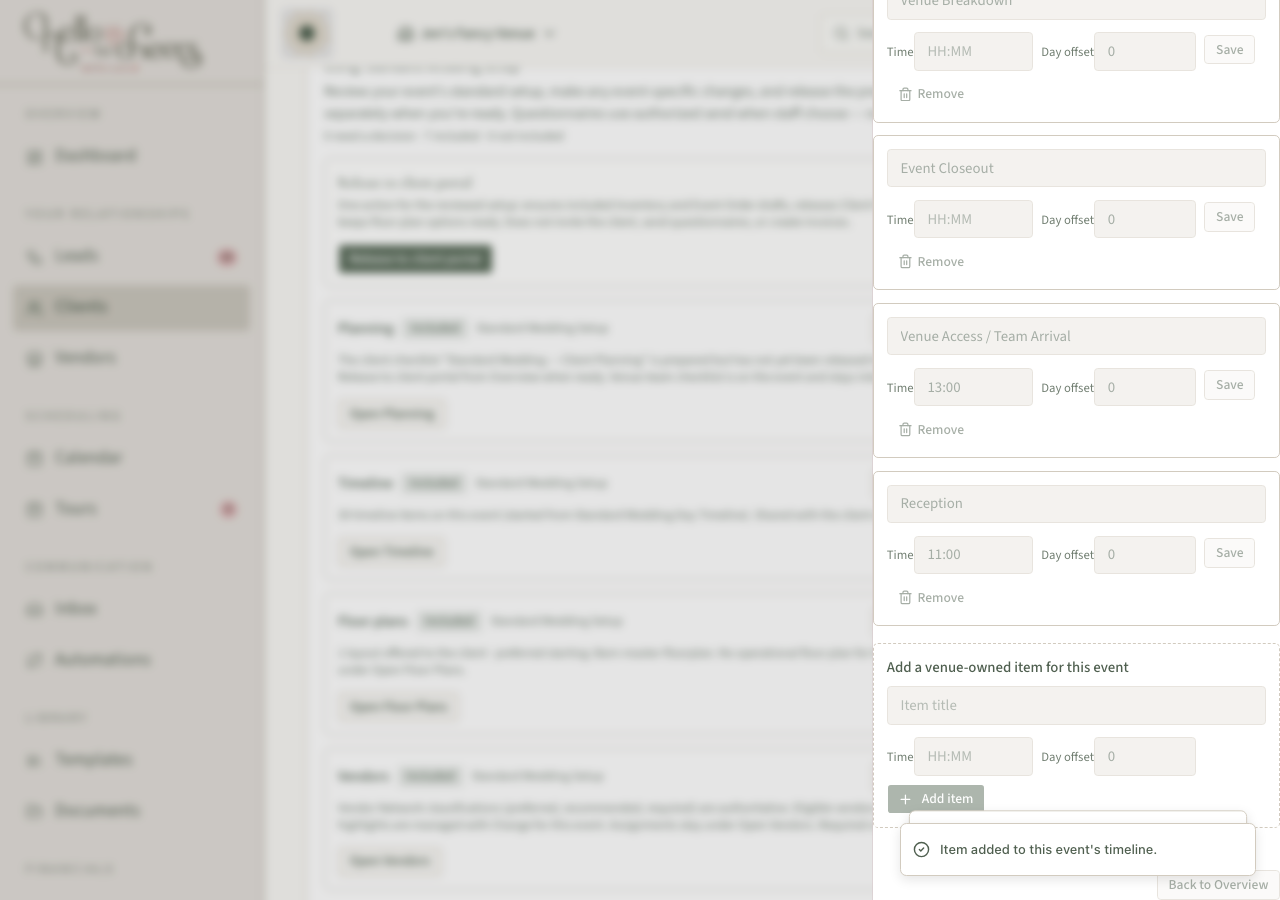
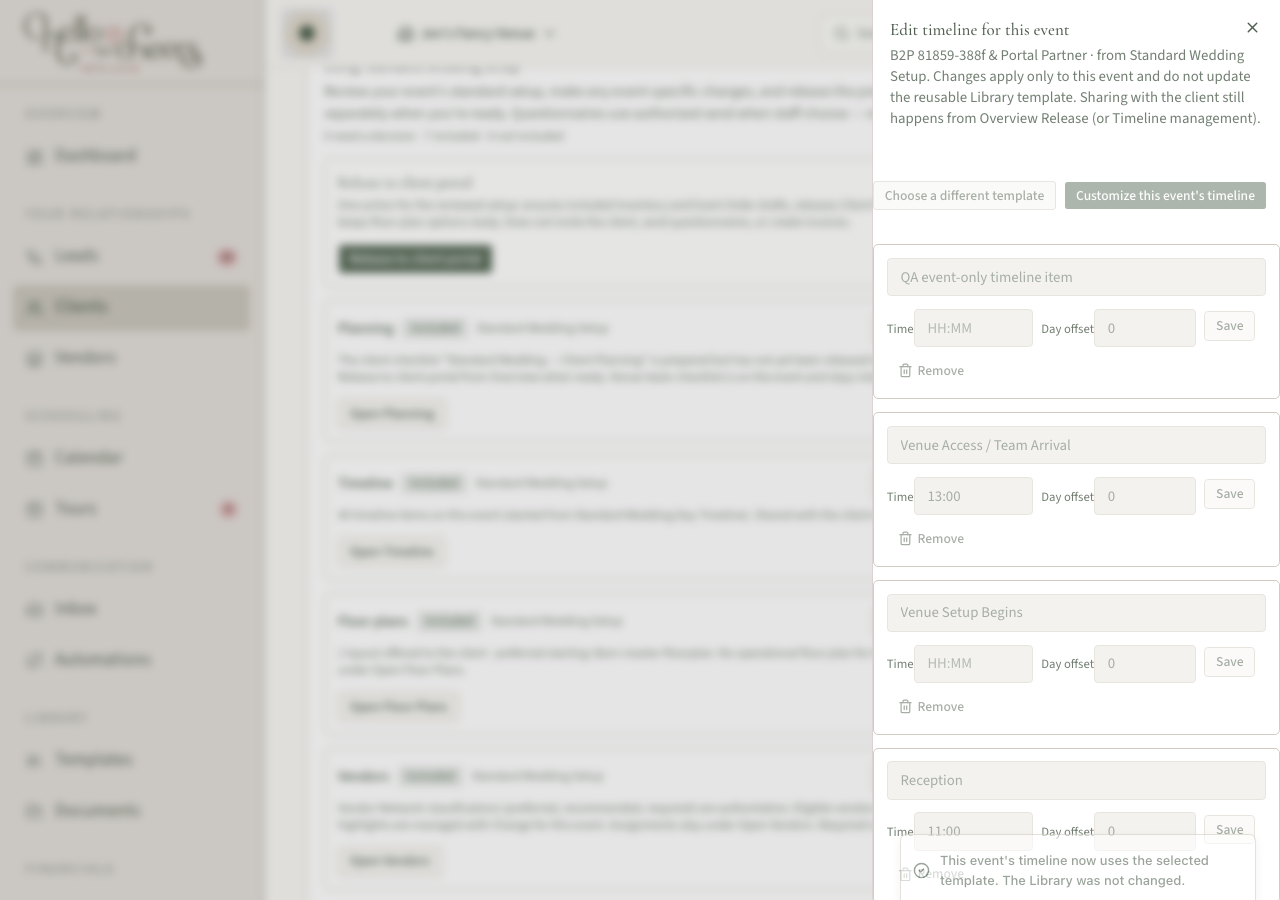
Record Planning/Timeline corrective Sandbox acceptance GREEN.

diff --git a/docs/qa/booking-to-portal-simplification/CORRECTIVE-PLANNING-TIMELINE-STATUS.md b/docs/qa/booking-to-portal-simplification/CORRECTIVE-PLANNING-TIMELINE-STATUS.md
@@ -1,0 +1,88 @@
+# Corrective pass — Planning venue inheritance, template Cancel, Timeline replace
+
+## Status
+
+**GREEN / CLOSED**
+
+Settings and Setup Profiles unchanged. Production untouched. Phase 5 Vendors product remains serving-compatible; this pass fixes Planning/Timeline defects on top of `0ed74ba5…` / evidence `81159a10…`.
+
+## Preflight
+
+| Item | Value |
+|------|-------|
+| Branch | `feat/spaces-booking-e1-smart-fields` |
+| Starting HEAD | `81159a10556ef3ef2d473b59c8bd3431a27be116` |
+| Serving at start | `0ed74ba57d25d482d9377beb3331191c43d4d055` |
+| Dirty tree | ~899 unrelated paths preserved |
+
+## Root causes
+
+### A — Venue checklist missing
+
+Venue inheritance called session-bound `applyPlaybookToEvent` / `getTemplate` and ignored non-throwing `ok: false` results. Client Planning could still appear (or attach separately) while the venue application was silently skipped. Events whose book-time snapshot lacked `venuePlanningPlaybookTemplateId` also never recovered unless prepare/release ran with that ref present.
+
+### B — No Cancel on template selection
+
+Planning (client + venue) and Timeline template paths had Apply only; leaving required Overview return or re-apply.
+
+### C — Timeline template replace failure
+
+`replaceEventTimelineFromTemplate` deleted/added each row through separate `withVenue` service round-trips (N+M). Large templates timed out → page error / return to Overview; UI still labeled the profile starting template so the journey looked unchanged.
+
+## Fixes (product `cb44fc21…`)
+
+1. Inherit applies venue playbooks via `repo.applyPlaybookToEvent` on the booking supabase client.
+2. Venue editor recovers from inherited `preferredVenueTemplateId` when the application is missing; Cancel on client/venue/timeline template paths.
+3. Timeline replace: one bulk `deleteVenueOwnedEntriesForEvent` + inserts on a single client; action try/catch; editor stays open on success.
+
+## Serving
+
+| Item | Value |
+|------|-------|
+| Product commit | `cb44fc21d843013119f42b13677faf782fdb3530` |
+| Deploy | [39699401900](https://github.com/jlcormier612/wevenu-website/actions/runs/39699401900) **success** |
+| Serving SHA | `cb44fc21d843013119f42b13677faf782fdb3530` (`data-dpl-id`) |
+
+## Tests
+
+```bash
+node --import tsx --test lib/event-setup/*.test.ts lib/timeline-templates/*.test.ts lib/vendors/directory-vs-assignment.test.ts
+```
+
+**194/194 PASS**
+
+## Browser acceptance
+
+```bash
+EXPECTED_SHA=cb44fc21d843013119f42b13677faf782fdb3530 \
+  npx tsx scripts/qa/booking-to-portal-simplification-acceptance.mts
+```
+
+**94/94 PASS** against serving `cb44fc21…`
+
+Fixture: event `bb3cb6bd-…` / client `54eabb8a-…` / tag `B2P-1792629481859-388f`
+
+### Persisted-state proof (highlights)
+
+- Venue application at book: `b2808150…` Standard Wedding — Venue Planning; venue tasks ≥ 7.
+- Editor empty state not shown; Cancel left application unchanged.
+- Timeline Cancel: entry count 40→40.
+- Timeline replace to Reception Only: venue-owned entries 28 (= template item count); editor remained open; prior QA custom item removed.
+- Invite separate; prepare did not invite/send Q/create invoice.
+- Setup Profile template_refs unchanged.
+
+## Screenshots
+
+- `03d-venue-planning-setup-editor-1280.png`
+- `03e-timeline-setup-editor-1280.png`
+- `03e2-timeline-template-replaced-1280.png`
+- Plus refreshed Phase 1–5 suite screenshots / `browser-results.json` / `browser-run.log`
+
+## Limitations
+
+- Events booked **before** the profile stored `venuePlanningPlaybookTemplateId` keep a frozen snapshot without that ref. Opening Change can still Apply a chosen Library template; this pass does **not** mass-backfill live profile refs onto old snapshots.
+- When the inherited venue ref is present but the application is missing, the venue editor auto-applies once (idempotent).
+
+## Production
+
+Untouched. Unrelated dirty work preserved.
